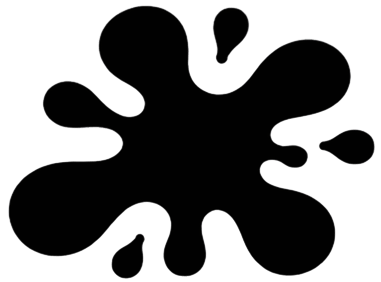
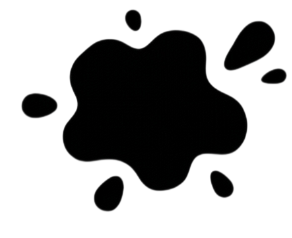
fix(lab): タップぬりえのシミPNGを9種に変更
SPLATTER_IMAGE_COUNT を9に。splatter_10 を削除し差し替え画像を反映。

Made-with: Cursor

diff --git a/src/components/lab/ColoringCanvas.tsx b/src/components/lab/ColoringCanvas.tsx
@@ -114,7 +114,7 @@ const SCAN_STRIDE = 2;
 /** マスク干渉切り分け用（true で枠外でも描ける） */
 const DEBUG_DISABLE_MASK = false;
 
-const SPLATTER_IMAGE_COUNT = 10;
+const SPLATTER_IMAGE_COUNT = 9;
 const SPLATTER_PUBLIC_PREFIX = "/assets/tap-coloring";
 
 /**
